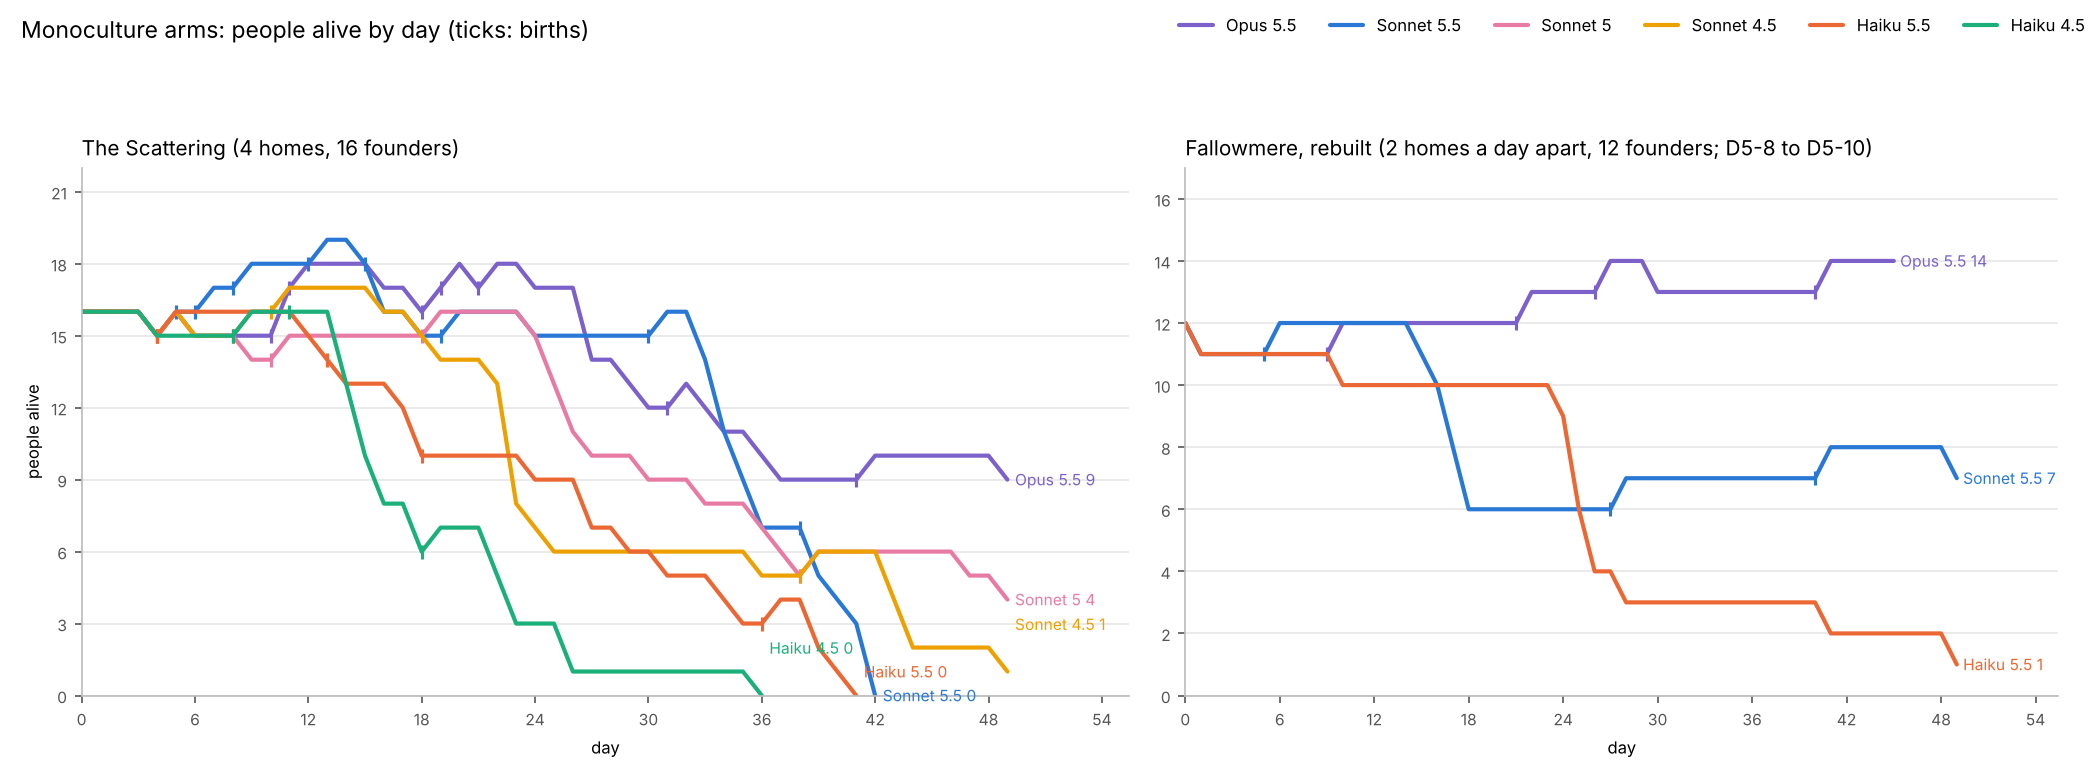
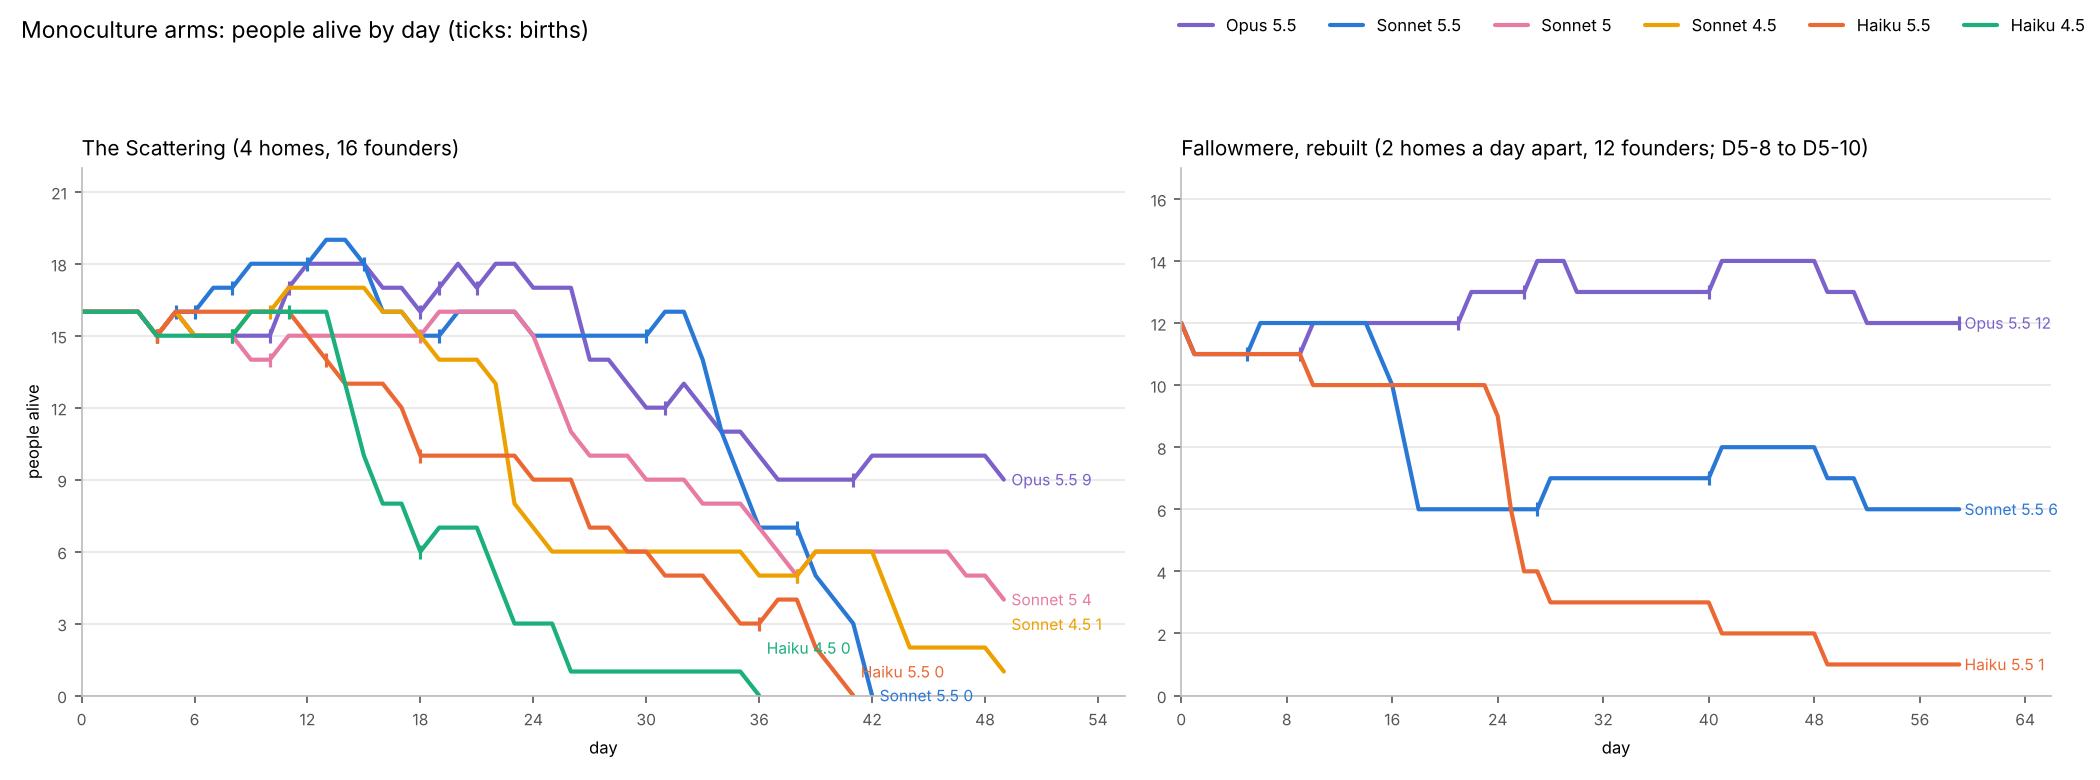
run W-204: Fallowmere m1b at day 60, published
Agent: bench
Thread: W-204

diff --git a/docs/cybertron2/items/W-204.md b/docs/cybertron2/items/W-204.md
@@ -7,7 +7,7 @@ state: active
 created: "2026-11-25"
 seq: 117
 parent: ["W-201"]
-next: "27 Nov 03:00 UTC: Fallowmere m1b Sonnet 5.5 and Haiku 5.5 at day 60 (published); Opus 5.5 stopped at day 55 (the five-hour limit outlasted catchup's retries) and resumed to day 60; then stop for Zach's word"
+next: "27 Nov: Fallowmere m1b, the three 5.5 models, all at day 60 and published; stopped for Zach's word"
 notes: started
 started: 25 Nov
 table: in_progress
